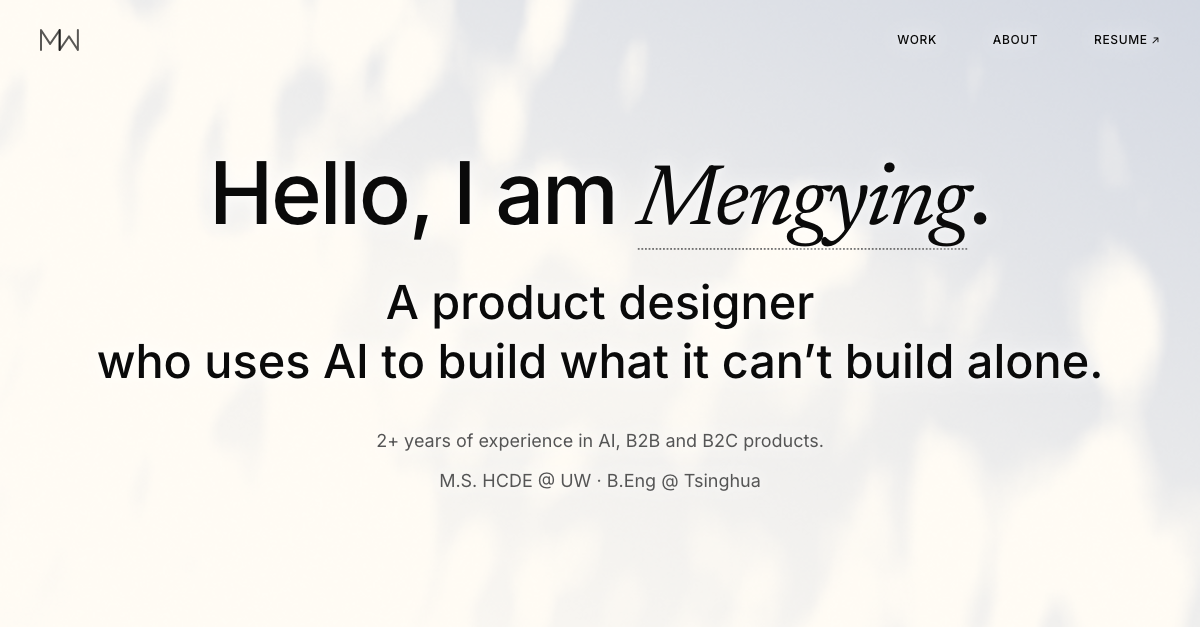
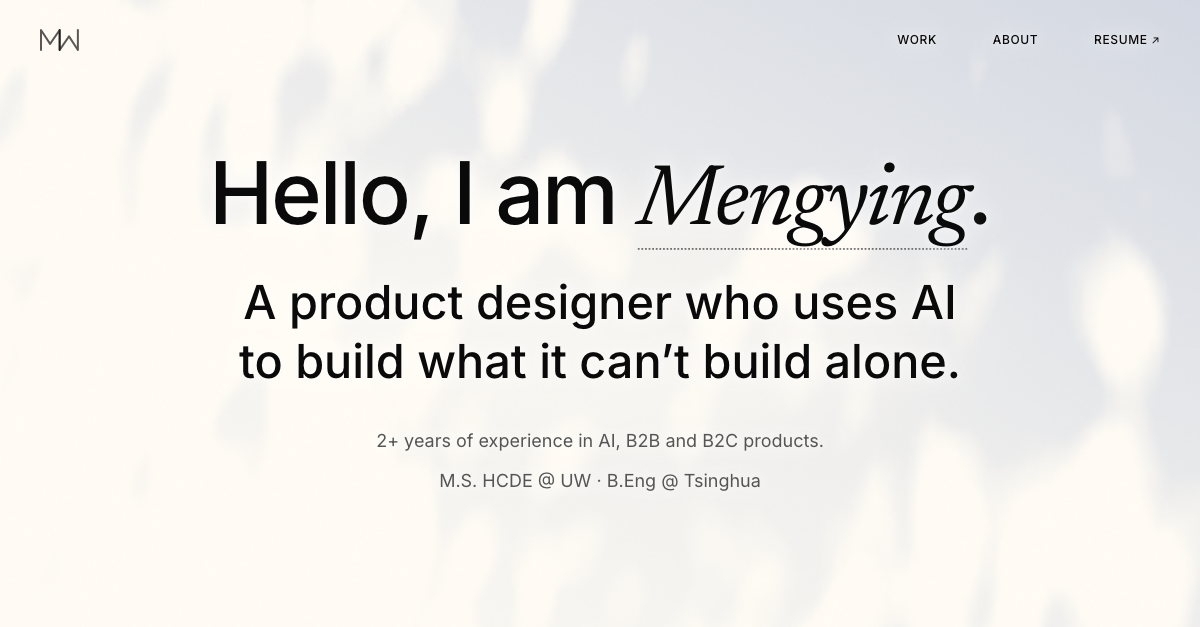
Home hero: rebalance tagline lines; faster intro, text first

Changed region(s): [[0.0617, 0.4545, 0.925, 0.6061]]

diff --git a/src/data/home.ts b/src/data/home.ts
@@ -3,8 +3,8 @@ export const hero = {
   name: 'Mengying',
   /** Cast on the wall as a shadow while the name is hovered. */
   nameShadow: '梦嬴',
-  taglineLead: 'A product designer',
-  taglineRest: 'who uses AI to build what it can’t build alone.',
+  taglineLead: 'A product designer who uses AI',
+  taglineRest: 'to build what it can’t build alone.',
   intro: '2+ years of experience in AI, B2B and B2C products.',
   /** Quieter line under the intro; it only wraps between items. */
   education: ['M.S. HCDE @ UW', 'B.Eng @ Tsinghua'],
